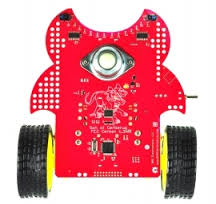
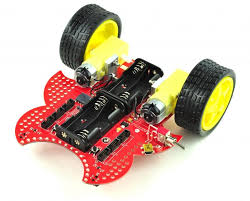
changed Cerbot image, formating in products, and added more to BrainPad C#

diff --git a/hardware/legacy_products/gadgeteer/fez_cerberus.md b/hardware/legacy_products/gadgeteer/fez_cerberus.md
@@ -52,7 +52,6 @@ An arduino-pinout compatible for accepting shields and also has some Gadgeteer s
 DIP40 formfactor board. Not really a Gadgeteer board but it is very small!
 
 ## FEZ Cerbot
-(change the image)
 ![FEZ Cerbot](images/fez_cerbot.jpg)
 
 A robot with reflective sensors and tons of LEDs. Gadgeteer sockets are used as an easy way to add features.

diff --git a/index.md b/index.md
@@ -4,6 +4,5 @@ Some of the available docs are not yet complete, so please check back frequently
 
 You may obtain further assistance by contacting us [directly](https://www.ghielectronics.com/contact) or though our [community forums](https://forums.ghielectronics.com/).
 
-(replace this image)
 
 ![GHI Electronics](images/ghi-electronics-hs.jpg) 

diff --git a/hardware/products/g120.md b/hardware/products/g120.md
@@ -51,7 +51,7 @@ A though-hole version of G120.
 ## G120 Cobra III
 ![FEZ Cobra III](images/fez_cobra_iii.jpg) 
 
-A Arduino-pinout compatible single board computer.
+An Arduino-pinout compatible single board computer.
 
 * [Schematics]()
 

diff --git a/hardware/products/g30.md b/hardware/products/g30.md
@@ -39,6 +39,7 @@ A though-hole version of G30.
 
 ## FEZ Lemur
 ![FEZ Lemur](images/fez_lemur.jpg)
+
 A Arduino-pinout compatible single board computer.
 
 * [Schematics]()
